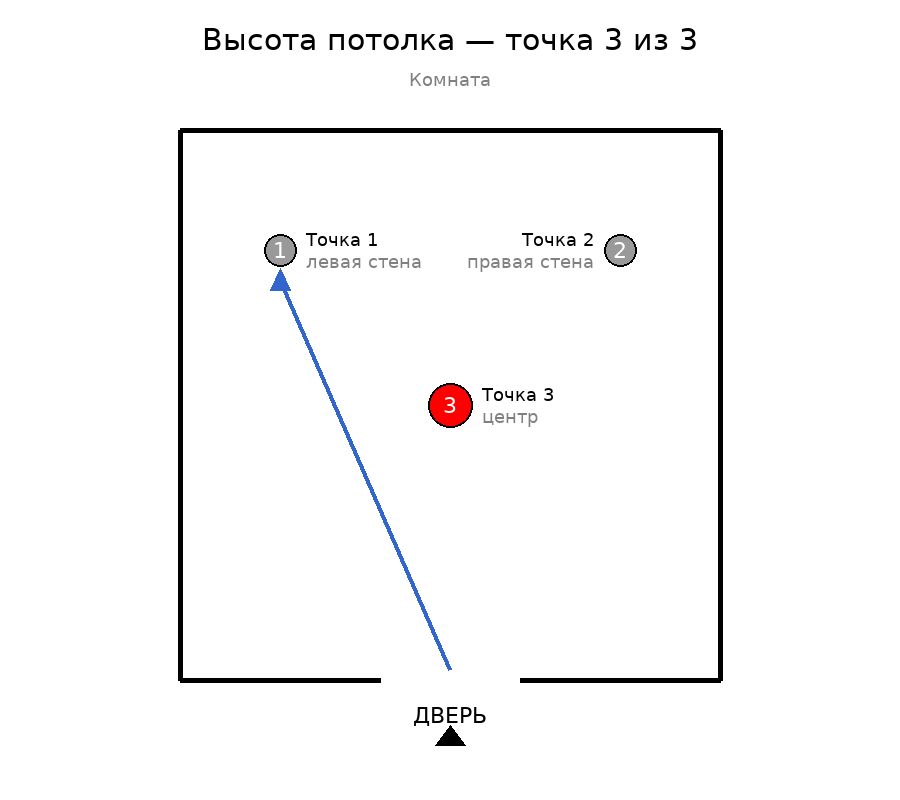
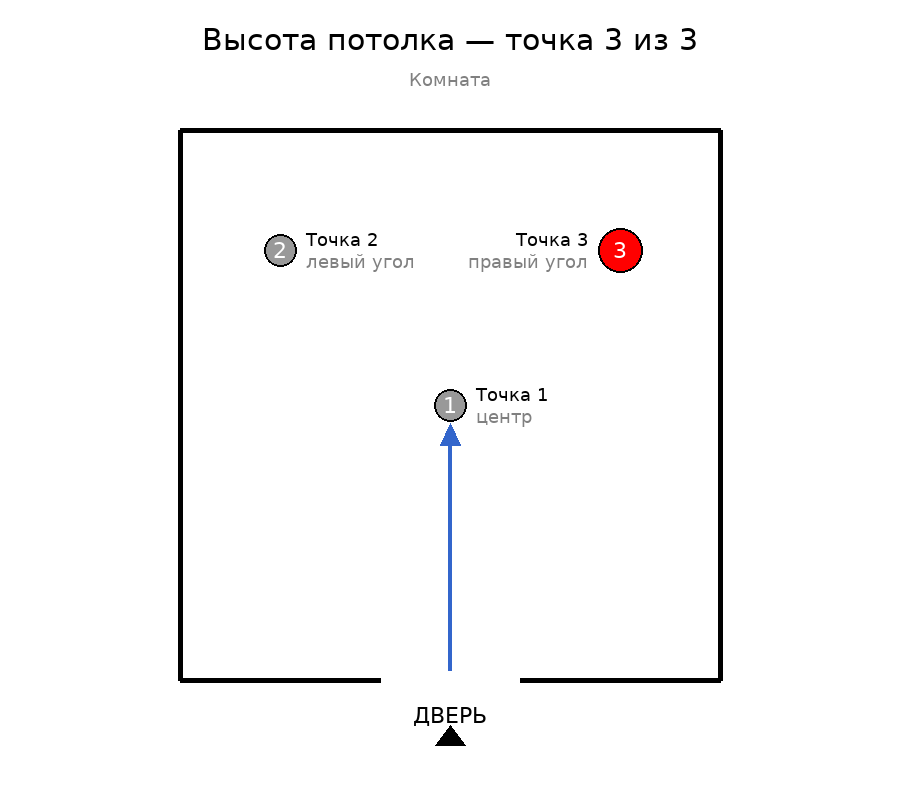
fix: схема — точка 1 в центре, 2 и 3 в углах

diff --git a/scripts/draw_room_scheme.py b/scripts/draw_room_scheme.py
@@ -57,16 +57,16 @@ def draw_height_scheme(step=1, room_name="Комната"):
     mid = (door_x1 + door_x2)//2
     d.polygon([(mid-15, y2+65), (mid+15, y2+65), (mid, y2+45)], fill="black")
 
-    # Точки — координаты
+    # Точки — координаты (1 = центр, 2 = левый угол, 3 = правый угол)
     points = {
-        1: (x1 + 100, y1 + 120),           # у левой стены
-        2: (x2 - 100, y1 + 120),           # у правой стены
-        3: ((x1 + x2)//2, (y1 + y2)//2),   # ровно центр
+        1: ((x1 + x2)//2, (y1 + y2)//2),   # центр (ПЕРВАЯ)
+        2: (x1 + 100, y1 + 120),           # левый угол
+        3: (x2 - 100, y1 + 120),           # правый угол
     }
     labels = {
-        1: ("Точка 1", "левая стена", "right"),
-        2: ("Точка 2", "правая стена", "left"),
-        3: ("Точка 3", "центр", "right"),
+        1: ("Точка 1", "центр", "right"),
+        2: ("Точка 2", "левый угол", "right"),
+        3: ("Точка 3", "правый угол", "left"),
     }
 
     for num, (px, py) in points.items():
@@ -88,10 +88,10 @@ def draw_height_scheme(step=1, room_name="Комната"):
         d.text((tx, py - 10), lab_title, fill="black", font=font_sm, anchor=ax)
         d.text((tx, py + 12), lab_sub, fill="gray", font=font_sm, anchor=ax)
 
-    # Стрелка обхода: от двери к точке 1 — прямая диагональ
+    # Стрелка обхода: от двери к центру (точка 1) — прямая
     px1, py1 = points[1]
     start = (mid, y2 - 10)
-    # Линия
+    # Линия от двери к центру
     d.line([start, (px1, py1 + 30)], fill="#3366CC", width=4)
     # Наконечник (стрелка вверх к точке)
     d.polygon([(px1-10, py1+40), (px1+10, py1+40), (px1, py1+18)], fill="#3366CC")
